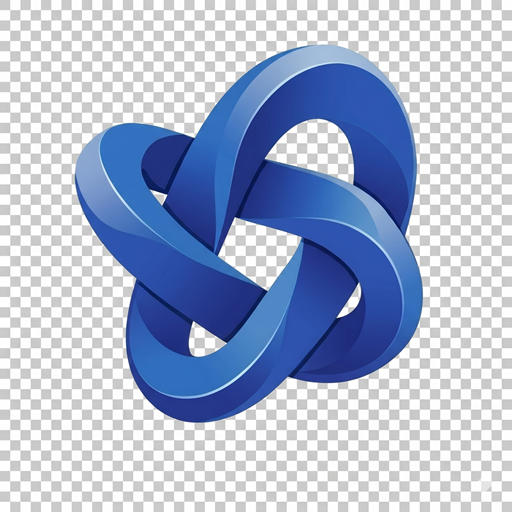
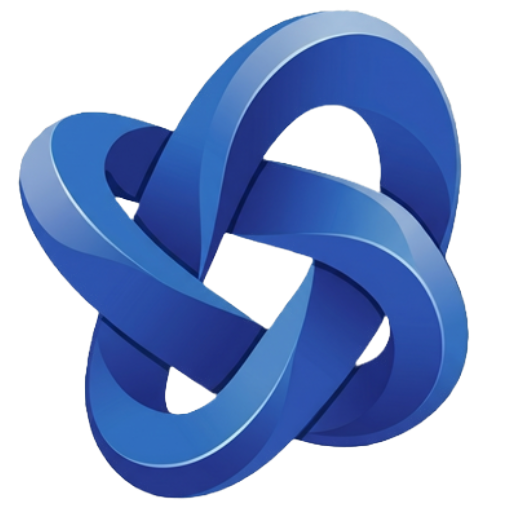
Update README.md.

diff --git a/README.md b/README.md
@@ -1,4 +1,4 @@
-# HelixToolkit Nex
+# HelixToolkit Nex <img src="Assets/icon.png" width=32 height=32 style="background-color: transparent;">
 
 [![License: MIT](https://img.shields.io/github/license/helix-toolkit/helix-toolkit-nex)](https://github.com/helix-toolkit/helix-toolkit-nex/blob/main/LICENSE)
 [![Github Action](https://github.com/helix-toolkit/helix-toolkit-nex/actions/workflows/ci.yml/badge.svg)](https://github.com/helix-toolkit/helix-toolkit-nex/actions?query=workflow%3ACI